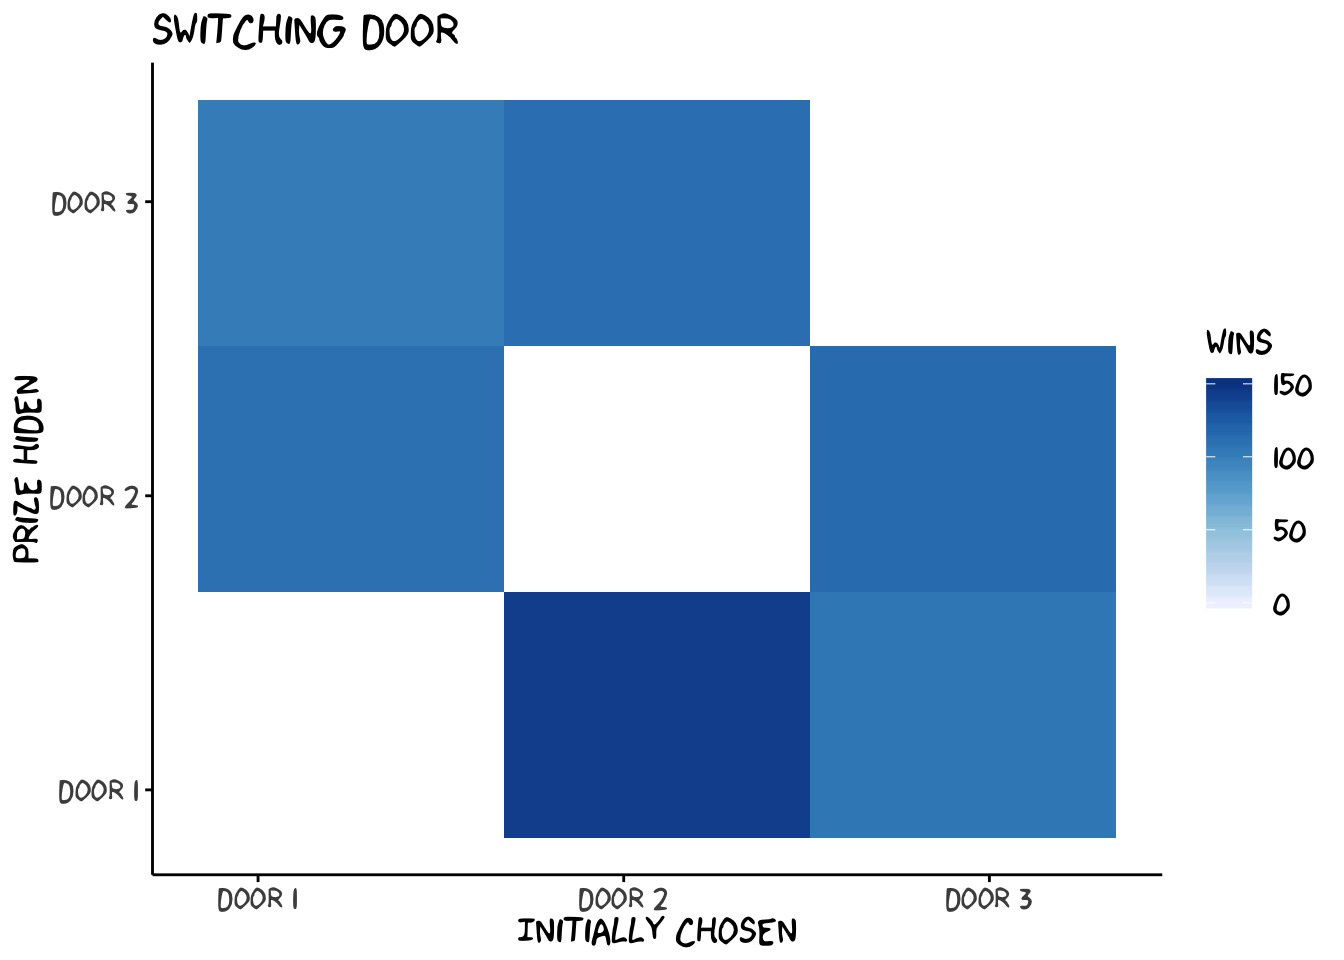
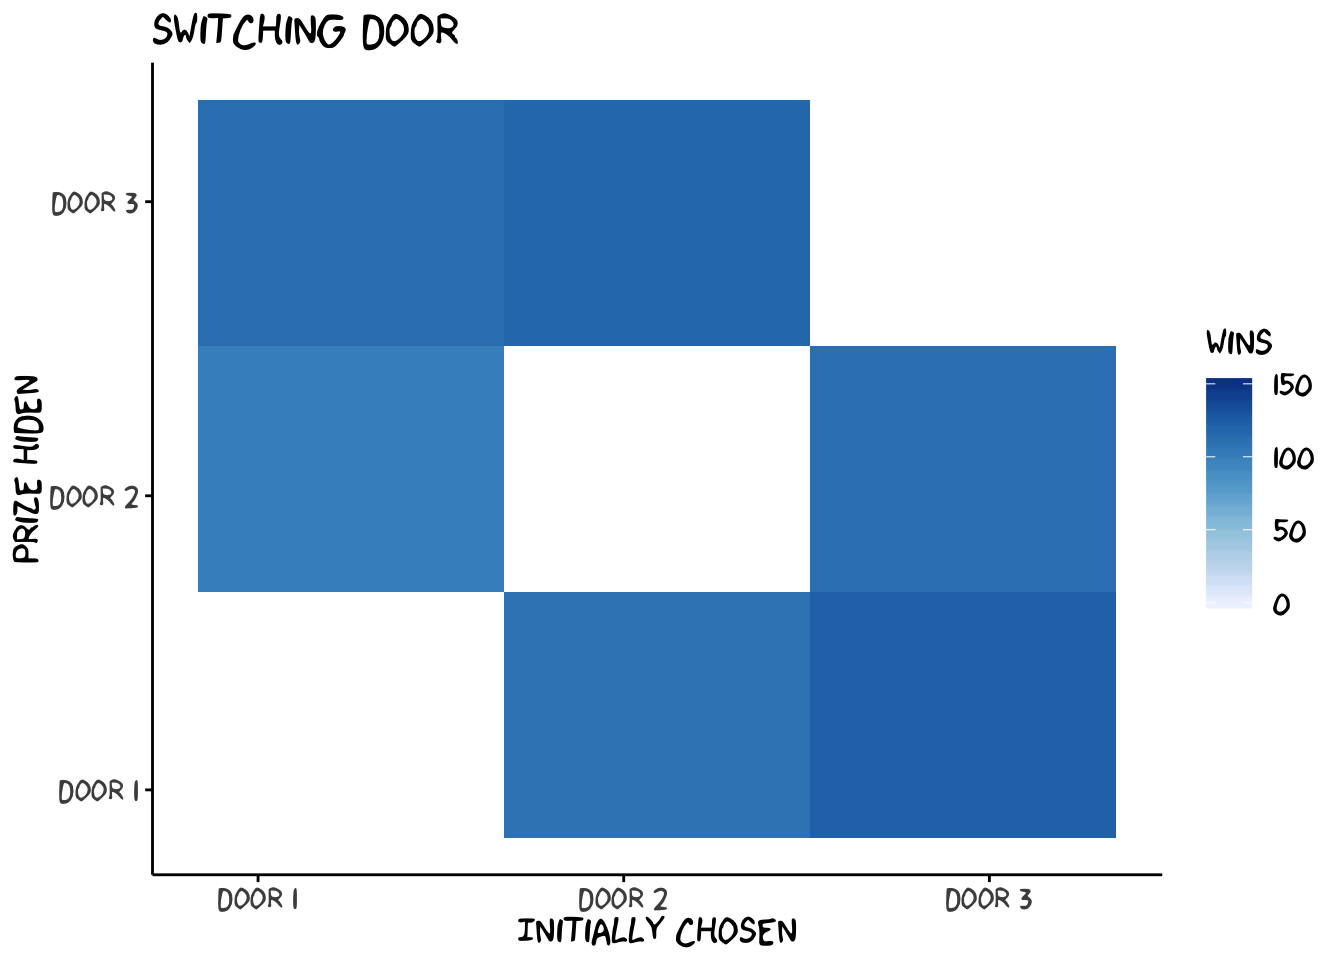
fixed img 3

Changed region(s): [[0.375, 0.5938, 0.625, 0.875]]

diff --git a/content/post/2020-10-05-the-monty-hall-problem.html b/content/post/2020-10-05-the-monty-hall-problem.html
@@ -24,7 +24,7 @@ tags:
 <p><strong>What should you do?</strong></p>
 <p>Let us calculate the chances of winning for the two strategies &quot;switching&quot; and &quot;staying&quot;. We use the probabilities in the tree diagrams below. We have one tree diagram to calculate the &quot;switch&quot; strategy's winning chance, and one for the &quot;stay&quot; strategy:</p>
 <div class="figure">
-<img src="/post/2020-10-05-the-monty-hall-problem_files/MontyHall.png" alt="Figure 1: Probability Tree for Monty Hall Problem" style="width:100.0%" />
+<img src="/ABS1/post/2020-10-05-the-monty-hall-problem_files/figure-html/MontyHall.png" alt="Figure 1: Probability Tree for Monty Hall Problem" style="width:100.0%" />
 <p class="caption"><strong>Figure 1</strong>: <em>Probability Tree for Monty Hall Problem</em></p>
 </div>
 <p>The first branches correspond to the &quot;choose initial door&quot; phase. Without any prior information about the doors,the probability that the car is behind the chosen door is 1/3. Now the contestant makes a further choice between switching doors or changing doors.</p>
@@ -83,8 +83,8 @@ for (i in 1 : n)
   winning[i] = winning.door
 
 }</code></pre>
-<pre><code>## [1] &quot;The strategy &#39;switch&#39; yielded  687  wins.&quot;</code></pre>
-<pre><code>## [1] &quot;The strategy &#39;stay&#39; yielded  313  wins.&quot;</code></pre>
+<pre><code>## [1] &quot;The strategy &#39;switch&#39; yielded  671  wins.&quot;</code></pre>
+<pre><code>## [1] &quot;The strategy &#39;stay&#39; yielded  329  wins.&quot;</code></pre>
 <p>We can visualize the outcome by plotting when and how often each strategy leads to winning the prize.</p>
 <p><img src="/ABS1/post/2020-10-05-the-monty-hall-problem_files/figure-html/unnamed-chunk-4-1.png" width="80%" style="display: block; margin: auto;" /><img src="/ABS1/post/2020-10-05-the-monty-hall-problem_files/figure-html/unnamed-chunk-4-2.png" width="80%" style="display: block; margin: auto;" /></p>
 <p>We see two interesting things in this figures: (1) &quot;switch&quot; wins exactly when &quot;stay&quot; doesn't win and (2) switching always wins if you chose the wrong door initially. Thus, staying wins with a probability of 1/3 (choosing the right door out of 3), and switching wins with a probability of 2/3. Exactly as we have calcualted with our decision tree.</p>

diff --git a/docs/2020/10/05/the-monty-hall-problem/index.html b/docs/2020/10/05/the-monty-hall-problem/index.html
@@ -89,7 +89,7 @@
 <p><strong>What should you do?</strong></p>
 <p>Let us calculate the chances of winning for the two strategies &quot;switching&quot; and &quot;staying&quot;. We use the probabilities in the tree diagrams below. We have one tree diagram to calculate the &quot;switch&quot; strategy's winning chance, and one for the &quot;stay&quot; strategy:</p>
 <div class="figure">
-<img src="/post/2020-10-05-the-monty-hall-problem_files/MontyHall.png" alt="Figure 1: Probability Tree for Monty Hall Problem" style="width:100.0%" />
+<img src="/ABS1/post/2020-10-05-the-monty-hall-problem_files/figure-html/MontyHall.png" alt="Figure 1: Probability Tree for Monty Hall Problem" style="width:100.0%" />
 <p class="caption"><strong>Figure 1</strong>: <em>Probability Tree for Monty Hall Problem</em></p>
 </div>
 <p>The first branches correspond to the &quot;choose initial door&quot; phase. Without any prior information about the doors,the probability that the car is behind the chosen door is 1/3. Now the contestant makes a further choice between switching doors or changing doors.</p>
@@ -148,8 +148,8 @@ for (i in 1 : n)
   winning[i] = winning.door
 
 }</code></pre>
-<pre><code>## [1] &quot;The strategy &#39;switch&#39; yielded  687  wins.&quot;</code></pre>
-<pre><code>## [1] &quot;The strategy &#39;stay&#39; yielded  313  wins.&quot;</code></pre>
+<pre><code>## [1] &quot;The strategy &#39;switch&#39; yielded  671  wins.&quot;</code></pre>
+<pre><code>## [1] &quot;The strategy &#39;stay&#39; yielded  329  wins.&quot;</code></pre>
 <p>We can visualize the outcome by plotting when and how often each strategy leads to winning the prize.</p>
 <p><img src="/ABS1/post/2020-10-05-the-monty-hall-problem_files/figure-html/unnamed-chunk-4-1.png" width="80%" style="display: block; margin: auto;" /><img src="/ABS1/post/2020-10-05-the-monty-hall-problem_files/figure-html/unnamed-chunk-4-2.png" width="80%" style="display: block; margin: auto;" /></p>
 <p>We see two interesting things in this figures: (1) &quot;switch&quot; wins exactly when &quot;stay&quot; doesn't win and (2) switching always wins if you chose the wrong door initially. Thus, staying wins with a probability of 1/3 (choosing the right door out of 3), and switching wins with a probability of 2/3. Exactly as we have calcualted with our decision tree.</p>
